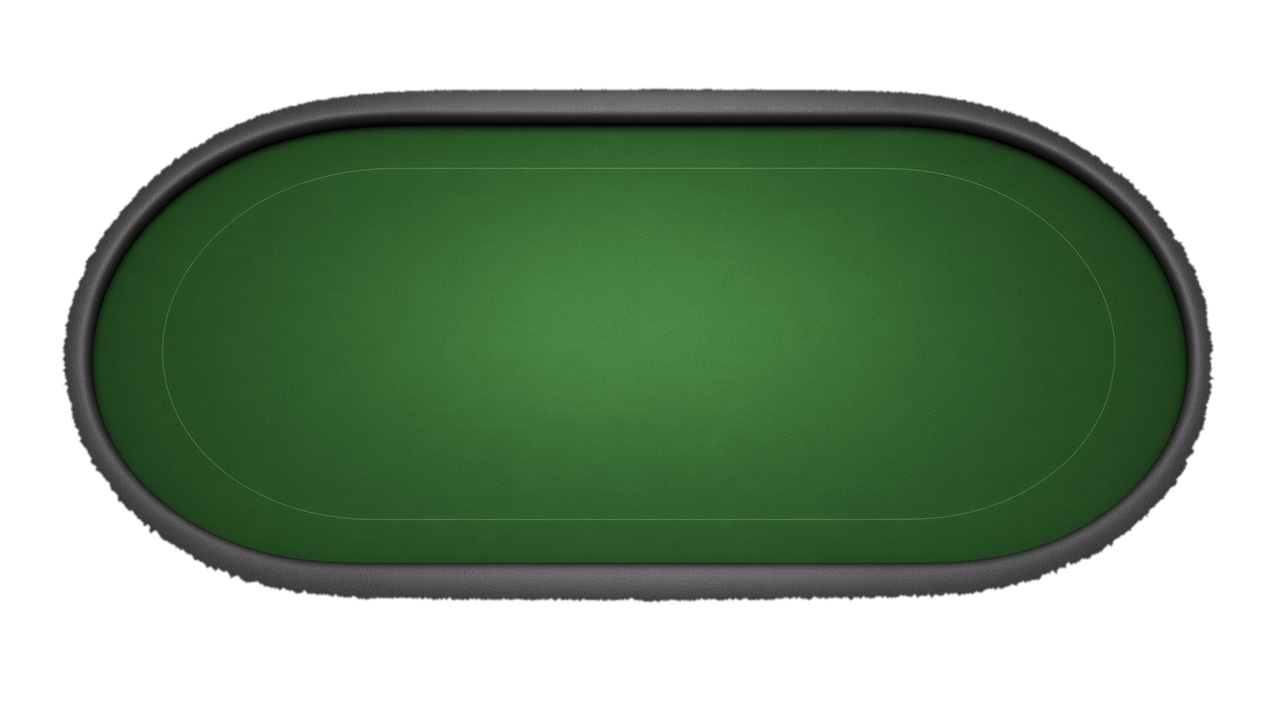
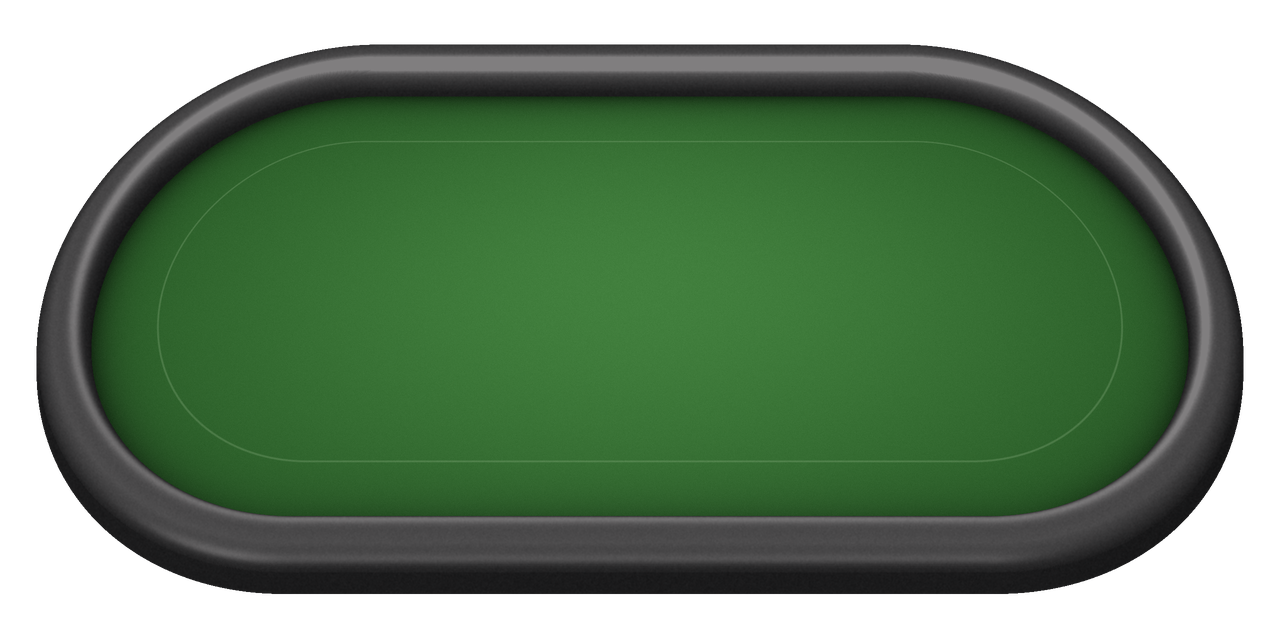
feat(table): draw the desktop still instead of generating it
The generated desktop table sat on a grey floor the same tone as the rail,
so the knock-out chewed the rim, and it was a flat overhead shot stretched
into a 2:1 box. A script now ray-marches the felt and padded rail through a
tilted camera onto transparency, in the phone still's colours, at 2:1.

Changed region(s): [[0.0312, 0.0625, 0.9688, 0.9375]]

diff --git a/scripts/render-table-desktop.py b/scripts/render-table-desktop.py
@@ -1,0 +1,156 @@
+"""
+Render the desktop table still (public/table-desktop.png).
+
+The phone still came out of an image model on a pure black void, so it cut out
+cleanly. The desktop one came back on a lit grey floor the same tone as the
+rail, and the knock-out chewed the rim. This draws the table instead: a
+stadium-shaped felt and a padded rail, ray-marched as a heightfield through a
+tilted camera so the near rail reads fat and the far rail recedes. It lands on
+transparency, so there is nothing to knock out.
+
+Colours are sampled from public/table-mobile.png so both poses match.
+
+    python3 scripts/render-table-desktop.py [--out public/table-desktop.png]
+"""
+
+import argparse
+
+import numpy as np
+from PIL import Image
+from scipy.ndimage import gaussian_filter
+
+# Output matches the desktop .table-stage (sm:aspect-2/1), so nothing stretches.
+OUT_W, OUT_H = 1280, 640
+SS = 2  # supersampling
+
+# Table, in plane units (≈ output px at the table's centre).
+HALF_STRAIGHT = 300  # half the straight run of the stadium
+RADIUS = 238  # felt end radius
+RAIL = 50  # rail width
+RAIL_H = 30  # rail height
+LINE_INSET = 62  # betting line distance inside the rail
+
+# Camera.
+PERSPECTIVE = 0.00055  # far side shrinks, near side grows
+TILT = 0.90  # vertical squash of the plane
+HEIGHT_SCALE = 1.0  # how far a raised point climbs the screen
+CENTER_Y = 0.5  # table centre as a fraction of height
+
+FELT_EDGE = np.array([30, 74, 29], np.float32)
+FELT_HOT = np.array([66, 128, 62], np.float32)
+LINE = np.array([150, 185, 140], np.float32)
+RAIL_DARK = np.array([14, 14, 15], np.float32)
+RAIL_LIT = np.array([128, 126, 127], np.float32)
+
+
+def stadium(X, Z):
+    """Signed distance to the felt edge, and its unit gradient."""
+    qx = np.maximum(np.abs(X) - HALF_STRAIGHT, 0.0)
+    length = np.hypot(qx, Z)
+    d = length - RADIUS
+    safe = np.maximum(length, 1e-6)
+    return d, np.sign(X) * qx / safe, Z / safe
+
+
+def rail_profile(d):
+    """Height across the rail: rises out of the felt, crowns, drops to a skirt."""
+    t = np.clip(d / RAIL, 0.0, 1.0)
+    dome = np.sqrt(np.clip(1.0 - ((t - 0.5) / 0.5) ** 2, 0.0, 1.0))
+    inner = RAIL_H * dome
+    outer = RAIL_H * (0.5 + 0.5 * dome)
+    h = np.where(t < 0.5, inner, outer)
+    h = np.where(d < 0, 0.0, h)
+    return np.where(d > RAIL, -1.0, h)
+
+
+def main():
+    parser = argparse.ArgumentParser()
+    parser.add_argument('--out', default='public/table-desktop.png')
+    args = parser.parse_args()
+
+    W, H = OUT_W * SS, OUT_H * SS
+    rng = np.random.default_rng(7)
+
+    # Screen → plane, in output-pixel units centred on the table.
+    xs = (np.arange(W, dtype=np.float32) + 0.5) / SS - OUT_W / 2
+    ys = OUT_H * CENTER_Y - (np.arange(H, dtype=np.float32) + 0.5) / SS
+    sx, sy = np.meshgrid(xs, ys)  # sy grows upward
+
+    def plane_at(h):
+        # sy = (TILT*Z + HEIGHT_SCALE*h) / (1 + PERSPECTIVE*Z), solved for Z.
+        Z = (sy - HEIGHT_SCALE * h) / (TILT - sy * PERSPECTIVE)
+        X = sx * (1.0 + PERSPECTIVE * Z)
+        return X, Z
+
+    # March from above the rail down to the felt; keep the first surface hit.
+    hit = np.zeros((H, W), bool)
+    HX = np.zeros((H, W), np.float32)
+    HZ = np.zeros((H, W), np.float32)
+    steps = 96
+    for h in np.linspace(RAIL_H, 0.0, steps):
+        X, Z = plane_at(h)
+        d, _, _ = stadium(X, Z)
+        new = ~hit & (rail_profile(d) >= h - RAIL_H / steps)
+        HX[new], HZ[new] = X[new], Z[new]
+        hit |= new
+
+    d, gx, gz = stadium(HX, HZ)
+    on_rail = hit & (d >= 0)
+    on_felt = hit & (d < 0)
+
+    # Rail: Blinn–Phong on the profile's normal, plus a leather grain.
+    eps = 0.5
+    slope = (rail_profile(d + eps) - rail_profile(np.maximum(d - eps, 0))) / (2 * eps)
+    n = np.stack([-slope * gx, np.ones_like(d), -slope * gz], -1)
+    n /= np.linalg.norm(n, axis=-1, keepdims=True)
+    light = np.array([-0.25, 1.0, -0.45])
+    light /= np.linalg.norm(light)
+    view = np.array([0.0, 0.75, -1.0])
+    view /= np.linalg.norm(view)
+    half = light + view
+    half /= np.linalg.norm(half)
+    lambert = np.clip(n @ light, 0, 1)
+    spec = np.clip(n @ half, 0, 1) ** 70
+    t = np.clip(d / RAIL, 0, 1)
+    crease = 1.0 - 0.6 * np.exp(-t / 0.05)  # where the cushion meets the felt
+    skirt = 1.0 - 0.55 * np.clip((t - 0.72) / 0.28, 0, 1)  # outer edge falls away
+    # The phone still's silver catch sits on the inner lip, not the crown.
+    lip = np.exp(-(((t - 0.3) / 0.12) ** 2)) * np.clip(n @ light, 0, 1)
+    grain = gaussian_filter(rng.normal(0, 1, (H, W)).astype(np.float32), 1.2) * 0.05
+    shade = (0.16 + 0.42 * lambert**2 + 0.6 * spec + 0.85 * lip) * crease * skirt
+    shade = np.clip(shade + grain, 0, 1)
+    rail = RAIL_DARK + (RAIL_LIT - RAIL_DARK) * shade[..., None]
+
+    # Felt: an overhead spotlight, darkening into the rail, one betting line.
+    spot = np.exp(-((HX / 560) ** 2 + (HZ / 300) ** 2))
+    felt = FELT_EDGE + (FELT_HOT - FELT_EDGE) * spot[..., None]
+    occlusion = 1.0 - 0.55 * np.exp(np.minimum(d, 0) / 16)
+    felt *= occlusion[..., None]
+    line = np.clip(1.4 - np.abs(d + LINE_INSET) / 0.9, 0, 1) * 0.28
+    felt += (LINE - felt) * line[..., None]
+    fibre = rng.normal(0, 2.2, (H, W)).astype(np.float32)
+    felt += fibre[..., None]
+
+    rgb = np.zeros((H, W, 3), np.float32)
+    rgb[on_felt] = felt[on_felt]
+    rgb[on_rail] = rail[on_rail]
+    alpha = hit.astype(np.float32) * 255
+
+    img = np.dstack([np.clip(rgb, 0, 255), alpha]).astype(np.uint8)
+    out = Image.fromarray(img, 'RGBA').convert('RGBa')
+    out = out.resize((OUT_W, OUT_H), Image.LANCZOS).convert('RGBA')
+
+    # Perspective pulls the oval off-centre; sit it in the middle of the box.
+    rows = np.where(np.array(out)[:, :, 3].max(axis=1) > 8)[0]
+    shift = (OUT_H - 1 - rows[-1] - rows[0]) // 2
+    centred = Image.new('RGBA', out.size)
+    centred.paste(out, (0, shift))
+    out = centred
+    print('table rows', rows[0] + shift, '..', rows[-1] + shift)
+
+    out.save(args.out, optimize=True)
+    print('wrote', args.out, out.size)
+
+
+if __name__ == '__main__':
+    main()
